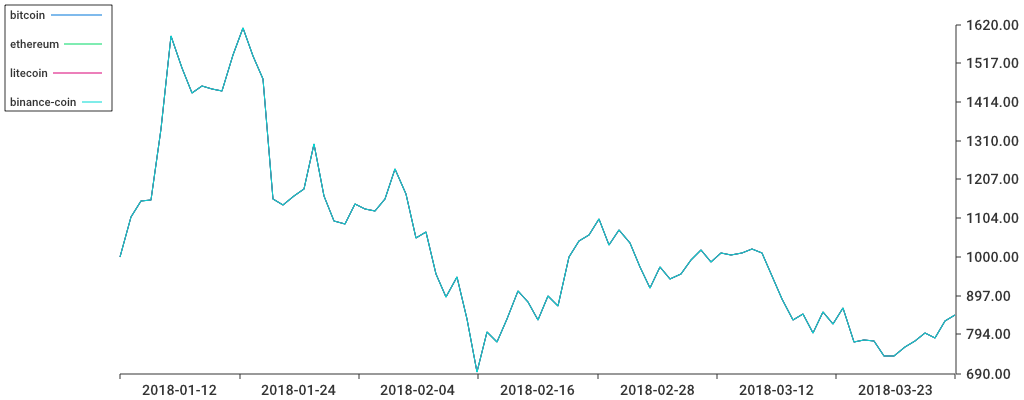
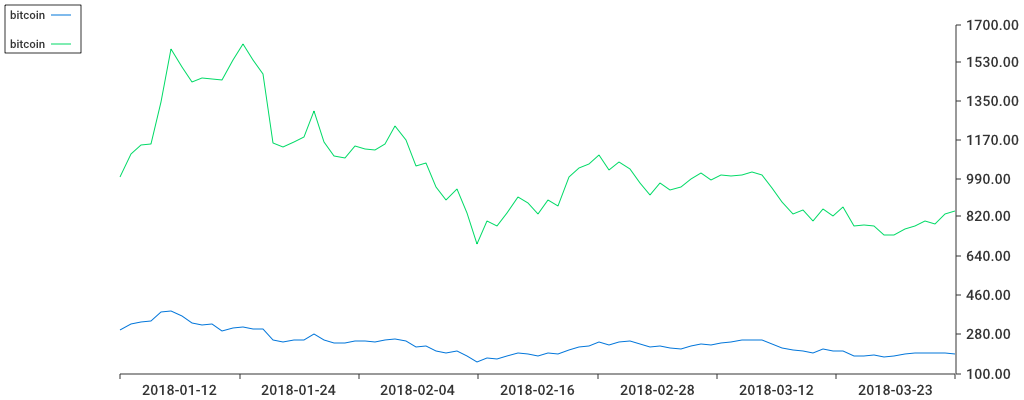
update

diff --git a/util/simplePortfolio.go b/util/simplePortfolio.go
@@ -66,18 +66,26 @@ func DrawPortfolioChart(investAmount float64, investDate string, portfolioName s
 
 	var allValuationSeries []chart.Series
 
-	for k, v := range allTs {
-		series := chart.TimeSeries{
-			Name: portfolio[k].Currency,
-			Style: chart.Style{
-				Show:        true,
-				StrokeColor: chart.GetDefaultColor(k),
-			},
-			XValues: v,
-			YValues: compoundValuations,
-		}
-		allValuationSeries = append(allValuationSeries, series)
+	baseSeries := chart.TimeSeries{
+		Name: portfolio[0].Currency,
+		Style: chart.Style{
+			Show:        true,
+			StrokeColor: chart.GetDefaultColor(0),
+		},
+		XValues: allTs[0],
+		YValues: allValuations[0],
 	}
+	portfolioSeries := chart.TimeSeries{
+		Name: portfolio[0].Currency,
+		Style: chart.Style{
+			Show:        true,
+			StrokeColor: chart.GetDefaultColor(1),
+		},
+		XValues: allTs[0],
+		YValues: compoundValuations,
+	}
+	allValuationSeries = append(allValuationSeries, baseSeries)
+	allValuationSeries = append(allValuationSeries, portfolioSeries)
 
 	graph := chart.Chart{
 		XAxis: chart.XAxis{
